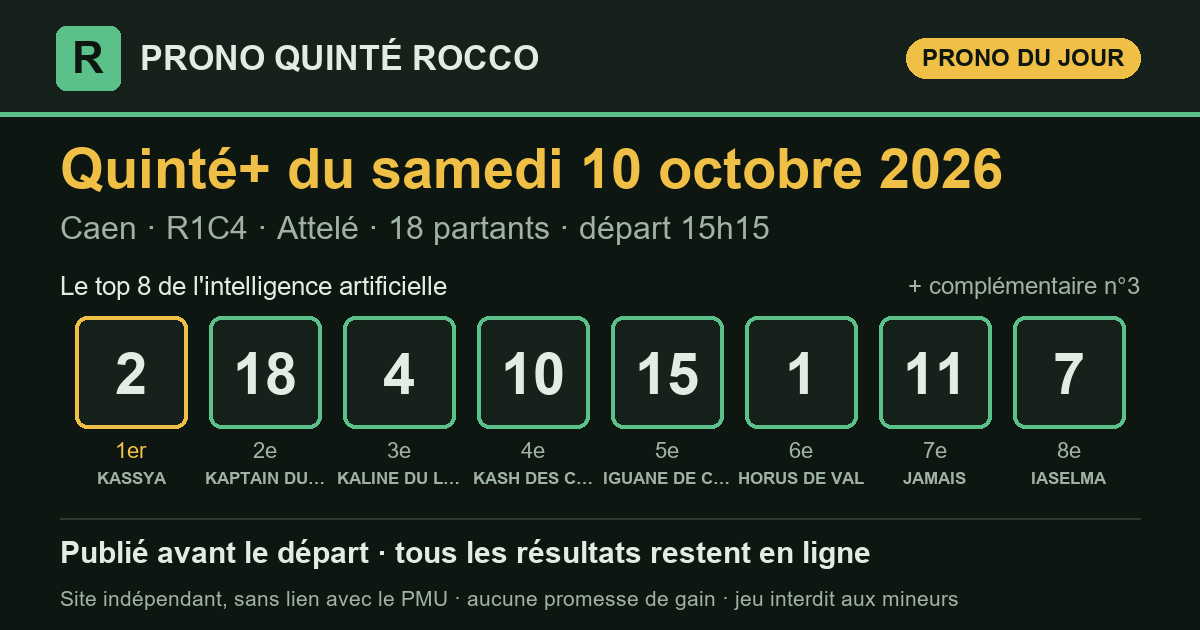
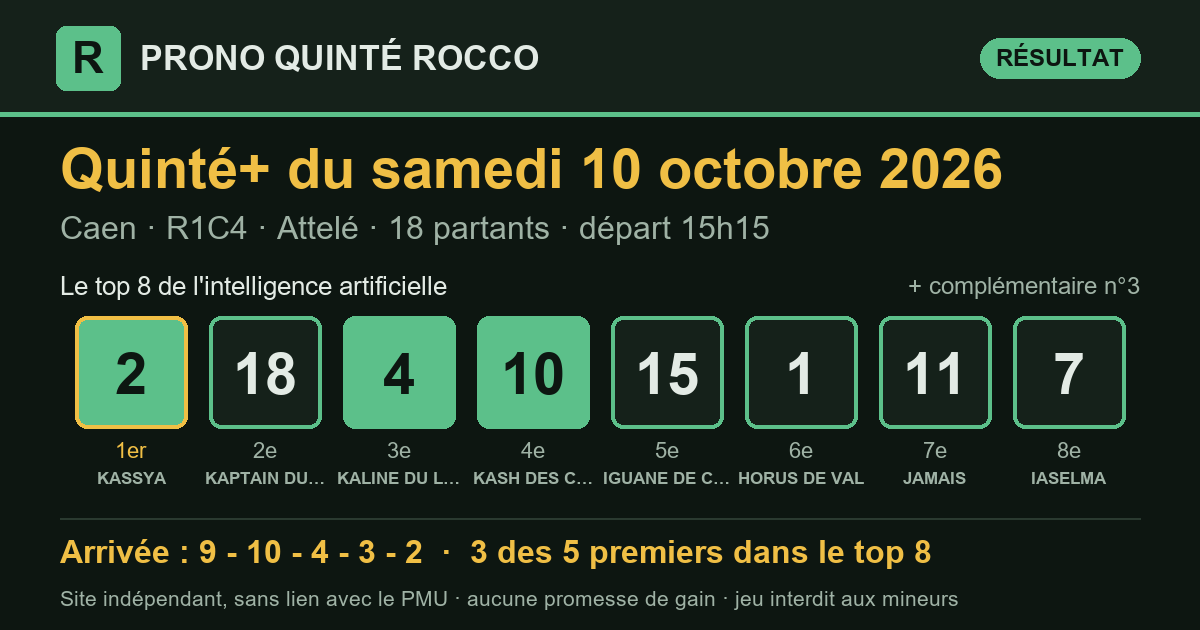
Prono Quinté+ 2026-10-10 Caen R1C4 — publié le 10/10/2026 15:27 (heure de Paris)

diff --git a/index.html b/index.html
@@ -13,7 +13,7 @@
 <meta property="og:title" content="Pronostic Quinté+ du samedi 10 octobre 2026 — Prono Quinté Rocco">
 <meta property="og:description" content="Le pronostic du Quinté+ par intelligence artificielle, publié avant le départ, avec tous les résultats et le rendement réel.">
 <meta property="og:url" content="https://roccogp971.github.io/prono-quinte-rocco/">
-<meta property="og:image" content="https://roccogp971.github.io/prono-quinte-rocco/partage/2026-10-10.png?v=e47417e0">
+<meta property="og:image" content="https://roccogp971.github.io/prono-quinte-rocco/partage/2026-10-10.png?v=2a5a7a5a">
 <meta property="og:image:type" content="image/png">
 <meta property="og:image:width" content="1200">
 <meta property="og:image:height" content="630">
@@ -28,15 +28,15 @@
 </header>
 <main>
 <section class="une" aria-labelledby="t-jour">
-  <p class="surtitre">Quinté+ du jour</p>
+  <p class="surtitre">Dernier Quinté+</p>
   <h1 id="t-jour">Le prono du Quinté+, résultats compris</h1>
   <p class="chapo">Chaque matin, une intelligence artificielle classe les partants du
   Quinté+. Le classement est publié avant le départ, puis comparé à l'arrivée
   officielle. Tous les résultats restent en ligne, les bons comme les mauvais.</p>
   <article class="carte-course">
-  <div class="tete"><h2>Samedi 10 octobre 2026</h2><span class="etat attente">arrivée en attente</span></div>
+  <div class="tete"><h2>Samedi 10 octobre 2026</h2><span class="etat place">3 des 5 premiers dans le top 8</span></div>
   <p class="meta">Caen · <strong>R1C4</strong> · Attelé · 18 partants · lisibilité <span class="note" aria-label="note 2 sur 5"><i class="on"></i><i class="on"></i><i class=""></i><i class=""></i><i class=""></i></span> 2/5</p>
-  <ol class="partants" aria-label="Classement du prono"><li><span class="rang">1<sup>er</sup></span><span class="tapis ">2</span><span class="nom">KASSYA</span></li><li><span class="rang">2<sup>e</sup></span><span class="tapis ">18</span><span class="nom">KAPTAIN DU LIAMONE</span></li><li><span class="rang">3<sup>e</sup></span><span class="tapis ">4</span><span class="nom">KALINE DU LOCHEUR</span></li><li><span class="rang">4<sup>e</sup></span><span class="tapis ">10</span><span class="nom">KASH DES CAILLONS</span></li><li><span class="rang">5<sup>e</sup></span><span class="tapis ">15</span><span class="nom">IGUANE DE CAPONET</span></li><li><span class="rang">6<sup>e</sup></span><span class="tapis ">1</span><span class="nom">HORUS DE VAL</span></li><li><span class="rang">7<sup>e</sup></span><span class="tapis ">11</span><span class="nom">JAMAIS</span></li><li><span class="rang">8<sup>e</sup></span><span class="tapis ">7</span><span class="nom">IASELMA</span></li><li><span class="rang">compl.</span><span class="tapis creux">3</span><span class="nom">KORONA DELADOU</span></li></ol>
+  <ol class="partants" aria-label="Classement du prono"><li><span class="rang">1<sup>er</sup></span><span class="tapis plein">2</span><span class="nom">KASSYA</span></li><li><span class="rang">2<sup>e</sup></span><span class="tapis ">18</span><span class="nom">KAPTAIN DU LIAMONE</span></li><li><span class="rang">3<sup>e</sup></span><span class="tapis plein">4</span><span class="nom">KALINE DU LOCHEUR</span></li><li><span class="rang">4<sup>e</sup></span><span class="tapis plein">10</span><span class="nom">KASH DES CAILLONS</span></li><li><span class="rang">5<sup>e</sup></span><span class="tapis ">15</span><span class="nom">IGUANE DE CAPONET</span></li><li><span class="rang">6<sup>e</sup></span><span class="tapis ">1</span><span class="nom">HORUS DE VAL</span></li><li><span class="rang">7<sup>e</sup></span><span class="tapis ">11</span><span class="nom">JAMAIS</span></li><li><span class="rang">8<sup>e</sup></span><span class="tapis ">7</span><span class="nom">IASELMA</span></li><li><span class="rang">compl.</span><span class="tapis creux plein">3</span><span class="nom">KORONA DELADOU</span></li></ol>
   <div class="pied-carte"><span>Analysé le 10/10 à 12:04 · en ligne le 10/10 à 12:19 · départ à 15:15 (heure de Paris)</span><span><a href="quinte/2026-10-10.html">Détail de la course</a></span></div>
 </article>
   <div class="legende"><span><span class="tapis plein petit">4</span> numéro dans les 5 premiers</span>
@@ -53,7 +53,7 @@
 </section>
 <section class="bilan" aria-labelledby="t-bilan">
   <h2 id="t-bilan">Le bilan depuis le 8 septembre 2026</h2>
-  <div class="tableau chiffres"><div class="case"><span class="gros ">75 %</span><span class="lib">des arrivants trouvés dans le top 8</span><span class="ref">un top 8 tiré au hasard : 52 %</span></div><div class="case"><span class="gros ">87 %</span><span class="lib">des gagnants présents dans le top 8</span><span class="ref"></span></div><div class="case"><span class="gros ">55 %</span><span class="lib">1er du prono placé</span><span class="ref">sur 31 Quintés</span></div><div class="case"><span class="gros perte">0,99 €</span><span class="lib">rendus pour 1 € joué placé sur le 1er</span><span class="ref">rapports officiels PMU</span></div><div class="case"><span class="gros perte">0,45 €</span><span class="lib">rendus pour 1 € joué en Quinté+ combiné top 8</span><span class="ref">56 combinaisons, rapports PMU.fr, sur 31 Quintés</span></div></div>
+  <div class="tableau chiffres"><div class="case"><span class="gros ">74 %</span><span class="lib">des arrivants trouvés dans le top 8</span><span class="ref">un top 8 tiré au hasard : 52 %</span></div><div class="case"><span class="gros ">84 %</span><span class="lib">des gagnants présents dans le top 8</span><span class="ref"></span></div><div class="case"><span class="gros ">55 %</span><span class="lib">1er du prono placé</span><span class="ref">sur 31 Quintés</span></div><div class="case"><span class="gros perte">0,99 €</span><span class="lib">rendus pour 1 € joué placé sur le 1er</span><span class="ref">rapports officiels PMU</span></div><div class="case"><span class="gros perte">0,44 €</span><span class="lib">rendus pour 1 € joué en Quinté+ combiné top 8</span><span class="ref">56 combinaisons, rapports PMU.fr, sur 32 Quintés</span></div></div>
   <p class="avertissement">Moins de 1 € rendu pour 1 € joué : suivre ce prono à la lettre fait <strong>perdre de l'argent</strong> sur cette période. Il sert à analyser une course, pas à promettre un gain.</p>
 </section>
 </main>

diff --git a/partants.html b/partants.html
@@ -32,49 +32,49 @@
     <p class="fiche-depart">Départ <b>15:15</b> <span>heure de Paris</span></p>
   </div>
   <p class="surtitre">Les pronostics ailleurs sur le web</p>
-  <div class="liens"><a class="lien-ext" href="https://www.turfoo.fr/programmes-courses/261010/reunion1-caen/course4-prix-de-la-ville-de-caen/pronostics-presse/" rel="noopener" target="_blank"><b>Les pronostics de la presse →</b><span>sur Turfoo (site extérieur)</span></a><a class="lien-ext" href="https://www.geny.com/programme/2026-10-10" rel="noopener" target="_blank"><b>Partants et pronostics →</b><span>programme du jour sur Geny (site extérieur)</span></a></div>
+  <div class="liens"><a class="lien-ext" href="https://www.turfoo.fr/programmes-courses/261010/" rel="noopener" target="_blank"><b>Les pronostics de la presse →</b><span>sur Turfoo (site extérieur)</span></a><a class="lien-ext" href="https://www.geny.com/programme/2026-10-10" rel="noopener" target="_blank"><b>Partants et pronostics →</b><span>programme du jour sur Geny (site extérieur)</span></a></div>
   <div class="liste-boite"><table class="liste-partants">
     <thead><tr><th>N°</th><th>Cheval</th><th class="cote"><span class="long">Cote du matin</span><span class="court">Cote</span></th>
     <th class="ia"><span class="long">Prono IA</span><span class="court">IA</span></th></tr></thead>
     <tbody><tr>
   <td><span class="tapis petit">1</span></td>
   <td><span class="cheval">HORUS DE VAL</span><span class="sous">E. LAMBERTZ · E. LAMBERTZ</span></td>
-  <td class="cote num">14,0</td>
+  <td class="cote num">13,0</td>
   <td class="ia"><span class="etat place">6<sup>e</sup></span></td>
 </tr><tr>
   <td><span class="tapis petit">2</span></td>
   <td><span class="cheval">KASSYA</span><span class="sous">Y. LEBOURGEOIS · D. LOCQUENEUX</span></td>
-  <td class="cote num">5,3</td>
+  <td class="cote num">5,0</td>
   <td class="ia"><span class="etat place">1<sup>er</sup></span></td>
 </tr><tr>
   <td><span class="tapis petit">3</span></td>
   <td><span class="cheval">KORONA DELADOU</span><span class="sous">GUILLAUME MARTIN · E. LETOUZE</span></td>
-  <td class="cote num">17,0</td>
+  <td class="cote num">16,0</td>
   <td class="ia"><span class="etat place">compl.</span></td>
 </tr><tr>
   <td><span class="tapis petit">4</span></td>
   <td><span class="cheval">KALINE DU LOCHEUR</span><span class="sous">D. BROHIER · D. BROHIER</span></td>
-  <td class="cote num">8,8</td>
+  <td class="cote num">8,4</td>
   <td class="ia"><span class="etat place">3<sup>e</sup></span></td>
 </tr><tr>
   <td><span class="tapis petit">5</span></td>
   <td><span class="cheval">KALITA D&#x27;HENINEL</span><span class="sous">J.G. VAN EECKHAUTE · J.G. VAN EECKHAUTE</span></td>
-  <td class="cote num">69,0</td>
+  <td class="cote num">83,0</td>
   <td class="ia">—</td>
 </tr><tr>
   <td><span class="tapis petit">6</span></td>
   <td><span class="cheval">IL PLEUT BERGERE</span><span class="sous">M. VERVA · G. VERVA</span></td>
-  <td class="cote num">43,0</td>
+  <td class="cote num">47,0</td>
   <td class="ia">—</td>
 </tr><tr>
   <td><span class="tapis petit">7</span></td>
   <td><span class="cheval">IASELMA</span><span class="sous">J. GOSSELIN · J. GOSSELIN</span></td>
-  <td class="cote num">29,0</td>
+  <td class="cote num">34,0</td>
   <td class="ia"><span class="etat place">8<sup>e</sup></span></td>
 </tr><tr>
   <td><span class="tapis petit">8</span></td>
   <td><span class="cheval">ISIA DU CHENE</span><span class="sous">M. MOTTIER · J. LE MER</span></td>
-  <td class="cote num">14,0</td>
+  <td class="cote num">12,0</td>
   <td class="ia">—</td>
 </tr><tr>
   <td><span class="tapis petit">9</span></td>
@@ -84,27 +84,27 @@
 </tr><tr>
   <td><span class="tapis petit">10</span></td>
   <td><span class="cheval">KASH DES CAILLONS</span><span class="sous">A. FAVRIS · Anthonin FAVRIS</span></td>
-  <td class="cote num">6,7</td>
+  <td class="cote num">7,5</td>
   <td class="ia"><span class="etat place">4<sup>e</sup></span></td>
 </tr><tr>
   <td><span class="tapis petit">11</span></td>
   <td><span class="cheval">JAMAIS</span><span class="sous">CEDRIC TERRY · F. TERRY</span></td>
-  <td class="cote num">17,0</td>
+  <td class="cote num">16,0</td>
   <td class="ia"><span class="etat place">7<sup>e</sup></span></td>
 </tr><tr>
   <td><span class="tapis petit">12</span></td>
   <td><span class="cheval">JUDY MATIDY</span><span class="sous">A. ANDRE · D. LECROQ</span></td>
-  <td class="cote num">43,0</td>
+  <td class="cote num">42,0</td>
   <td class="ia">—</td>
 </tr><tr>
   <td><span class="tapis petit">13</span></td>
   <td><span class="cheval">JANE AIMEE</span><span class="sous">CH. CLIN · Sté. Ent. Christophe CLIN</span></td>
-  <td class="cote num">94,0</td>
+  <td class="cote num">111,0</td>
   <td class="ia">—</td>
 </tr><tr>
   <td><span class="tapis petit">14</span></td>
   <td><span class="cheval">INDICE DELADOU</span><span class="sous">E. ALLARD · CH. HESLOUIN</span></td>
-  <td class="cote num">121,0</td>
+  <td class="cote num">146,0</td>
   <td class="ia">—</td>
 </tr><tr>
   <td><span class="tapis petit">15</span></td>
@@ -114,22 +114,22 @@
 </tr><tr>
   <td><span class="tapis petit">16</span></td>
   <td><span class="cheval">HABIT DE SOIREE</span><span class="sous">F. OUVRIE · F. SENET</span></td>
-  <td class="cote num">71,0</td>
+  <td class="cote num">93,0</td>
   <td class="ia">—</td>
 </tr><tr>
   <td><span class="tapis petit">17</span></td>
   <td><span class="cheval">GINO VIVA</span><span class="sous">D. THOMAIN · D. LOCQUENEUX</span></td>
-  <td class="cote num">84,0</td>
+  <td class="cote num">95,0</td>
   <td class="ia">—</td>
 </tr><tr>
   <td><span class="tapis petit">18</span></td>
   <td><span class="cheval">KAPTAIN DU LIAMONE</span><span class="sous">B. ROCHARD · FREDERIC PRAT</span></td>
-  <td class="cote num">6,2</td>
+  <td class="cote num">6,5</td>
   <td class="ia"><span class="etat place">2<sup>e</sup></span></td>
 </tr></tbody>
   </table></div>
   <p class="meta">Le rang du prono IA est celui publié sur ce site. Sous chaque cheval : driver · entraîneur. Partants et cotes : programme
-  officiel du PMU, lu le 10/10 à 12:19 (heure de Paris). NP = non-partant.</p>
+  officiel du PMU, lu le 10/10 à 15:27 (heure de Paris). NP = non-partant.</p>
 </section>
 </main>
 <footer class="pied">

diff --git a/quinte/2026-10-10.html b/quinte/2026-10-10.html
@@ -13,7 +13,7 @@
 <meta property="og:title" content="Pronostic Quinté+ du samedi 10 octobre 2026 à Caen — Prono Quinté Rocco">
 <meta property="og:description" content="Prono Quinté+ du samedi 10 octobre 2026 (Caen) : top 8, arrivée officielle et rapports PMU.fr.">
 <meta property="og:url" content="https://roccogp971.github.io/prono-quinte-rocco/quinte/2026-10-10.html">
-<meta property="og:image" content="https://roccogp971.github.io/prono-quinte-rocco/partage/2026-10-10.png?v=e47417e0">
+<meta property="og:image" content="https://roccogp971.github.io/prono-quinte-rocco/partage/2026-10-10.png?v=2a5a7a5a">
 <meta property="og:image:type" content="image/png">
 <meta property="og:image:width" content="1200">
 <meta property="og:image:height" content="630">
@@ -32,11 +32,19 @@
   <h1>Pronostic Quinté+ du samedi 10 octobre 2026</h1>
   <p class="chapo">Caen · R1C4 · Attelé · 18 partants</p>
   <article class="carte-course">
-  <div class="tete"><h2>Le prono : top 8 et complémentaire</h2><span class="etat attente">arrivée en attente</span></div>
+  <div class="tete"><h2>Le prono : top 8 et complémentaire</h2><span class="etat place">3 des 5 premiers dans le top 8</span></div>
   <p class="meta">Caen · <strong>R1C4</strong> · Attelé · 18 partants · lisibilité <span class="note" aria-label="note 2 sur 5"><i class="on"></i><i class="on"></i><i class=""></i><i class=""></i><i class=""></i></span> 2/5</p>
-  <ol class="partants" aria-label="Classement du prono"><li><span class="rang">1<sup>er</sup></span><span class="tapis ">2</span><span class="nom">KASSYA</span></li><li><span class="rang">2<sup>e</sup></span><span class="tapis ">18</span><span class="nom">KAPTAIN DU LIAMONE</span></li><li><span class="rang">3<sup>e</sup></span><span class="tapis ">4</span><span class="nom">KALINE DU LOCHEUR</span></li><li><span class="rang">4<sup>e</sup></span><span class="tapis ">10</span><span class="nom">KASH DES CAILLONS</span></li><li><span class="rang">5<sup>e</sup></span><span class="tapis ">15</span><span class="nom">IGUANE DE CAPONET</span></li><li><span class="rang">6<sup>e</sup></span><span class="tapis ">1</span><span class="nom">HORUS DE VAL</span></li><li><span class="rang">7<sup>e</sup></span><span class="tapis ">11</span><span class="nom">JAMAIS</span></li><li><span class="rang">8<sup>e</sup></span><span class="tapis ">7</span><span class="nom">IASELMA</span></li><li><span class="rang">compl.</span><span class="tapis creux">3</span><span class="nom">KORONA DELADOU</span></li></ol>
+  <ol class="partants" aria-label="Classement du prono"><li><span class="rang">1<sup>er</sup></span><span class="tapis plein">2</span><span class="nom">KASSYA</span></li><li><span class="rang">2<sup>e</sup></span><span class="tapis ">18</span><span class="nom">KAPTAIN DU LIAMONE</span></li><li><span class="rang">3<sup>e</sup></span><span class="tapis plein">4</span><span class="nom">KALINE DU LOCHEUR</span></li><li><span class="rang">4<sup>e</sup></span><span class="tapis plein">10</span><span class="nom">KASH DES CAILLONS</span></li><li><span class="rang">5<sup>e</sup></span><span class="tapis ">15</span><span class="nom">IGUANE DE CAPONET</span></li><li><span class="rang">6<sup>e</sup></span><span class="tapis ">1</span><span class="nom">HORUS DE VAL</span></li><li><span class="rang">7<sup>e</sup></span><span class="tapis ">11</span><span class="nom">JAMAIS</span></li><li><span class="rang">8<sup>e</sup></span><span class="tapis ">7</span><span class="nom">IASELMA</span></li><li><span class="rang">compl.</span><span class="tapis creux plein">3</span><span class="nom">KORONA DELADOU</span></li></ol>
   <div class="pied-carte"><span>Analysé le 10/10 à 12:04 · en ligne le 10/10 à 12:19 · départ à 15:15 (heure de Paris)</span><span></span></div>
 </article>
+<section class="carte-course" aria-labelledby="t-arr">
+  <div class="tete"><h2 id="t-arr">Arrivée officielle</h2></div>
+  <div class="rangee"><span class="tapis creux" title="1er">9</span><span class="tapis plein" title="2e">10</span><span class="tapis plein" title="3e">4</span><span class="tapis creux" title="4e">3</span><span class="tapis plein" title="5e">2</span></div>
+  <div class="deux">
+    <div><h3>Ce qu'aurait rendu le prono</h3><dl class="kv"><dt>1 € placé sur le 1er (n°2)</dt><dd>rapport manquant</dd><dt>1 € gagnant sur le 1er</dt><dd>rapport manquant</dd><dt>Quinté+ combiné top 8 (mise 112 €)</dt><dd>0,00 €</dd><dt>dont</dt><dd>aucun gain</dd></dl></div>
+    <div><h3>Rapports officiels</h3><dl class="kv"><dt>e-Quinté+ Ordre (2 €)</dt><dd>11 402,40 €</dd><dt>e-Quinté+ Désordre (2 €)</dt><dd>95,00 €</dd><dt>e-Bonus 4sur5 (2 €)</dt><dd>5,80 €</dd><dt>e-Bonus 3 (2 €)</dt><dd>5,00 €</dd></dl></div>
+  </div>
+</section>
 </section>
 </main>
 <footer class="pied">

diff --git a/resultats.html b/resultats.html
@@ -36,8 +36,8 @@
     <tbody><tr>
   <td class="c-date"><a href="quinte/2026-10-10.html">10/10</a></td>
   <td class="c-course">Caen<br><span class="meta">R1C4 · Attelé</span></td>
-  <td data-label="Top 8 du prono"><div class="rangee"><span class="tapis petit">2</span><span class="tapis petit">18</span><span class="tapis petit">4</span><span class="tapis petit">10</span><span class="tapis petit">15</span><span class="tapis petit">1</span><span class="tapis petit">11</span><span class="tapis petit">7</span></div></td><td data-label="Arrivée"><span class="etat attente">en attente</span></td>
-  <td class="num" data-label="Trouvés">—</td><td data-label="1er du prono"><span class="etat attente">—</span></td><td class="mont" data-label="Quinté+ top 8 (mise 112 €)">—</td>
+  <td data-label="Top 8 du prono"><div class="rangee"><span class="tapis plein petit">2</span><span class="tapis petit">18</span><span class="tapis plein petit">4</span><span class="tapis plein petit">10</span><span class="tapis petit">15</span><span class="tapis petit">1</span><span class="tapis petit">11</span><span class="tapis petit">7</span></div></td><td data-label="Arrivée"><div class="rangee"><span class="tapis creux petit" title="1er">9</span><span class="tapis plein petit" title="2e">10</span><span class="tapis plein petit" title="3e">4</span><span class="tapis creux petit" title="4e">3</span><span class="tapis plein petit" title="5e">2</span></div></td>
+  <td class="num" data-label="Trouvés">3/5</td><td data-label="1er du prono"><span class="etat non">non placé</span></td><td class="mont perte" data-label="Quinté+ top 8 (mise 112 €)">0,00 €</td>
 </tr><tr>
   <td class="c-date"><a href="quinte/2026-10-09.html">09/10</a></td>
   <td class="c-course">Vincennes<br><span class="meta">R1C4 · Attelé</span></td>
@@ -198,7 +198,7 @@
 </section>
 <section class="bilan" aria-labelledby="t-bilan">
   <h2 id="t-bilan">Le bilan depuis le 8 septembre 2026</h2>
-  <div class="tableau chiffres"><div class="case"><span class="gros ">75 %</span><span class="lib">des arrivants trouvés dans le top 8</span><span class="ref">un top 8 tiré au hasard : 52 %</span></div><div class="case"><span class="gros ">87 %</span><span class="lib">des gagnants présents dans le top 8</span><span class="ref"></span></div><div class="case"><span class="gros ">55 %</span><span class="lib">1er du prono placé</span><span class="ref">sur 31 Quintés</span></div><div class="case"><span class="gros perte">0,99 €</span><span class="lib">rendus pour 1 € joué placé sur le 1er</span><span class="ref">rapports officiels PMU</span></div><div class="case"><span class="gros perte">0,45 €</span><span class="lib">rendus pour 1 € joué en Quinté+ combiné top 8</span><span class="ref">56 combinaisons, rapports PMU.fr, sur 31 Quintés</span></div></div>
+  <div class="tableau chiffres"><div class="case"><span class="gros ">74 %</span><span class="lib">des arrivants trouvés dans le top 8</span><span class="ref">un top 8 tiré au hasard : 52 %</span></div><div class="case"><span class="gros ">84 %</span><span class="lib">des gagnants présents dans le top 8</span><span class="ref"></span></div><div class="case"><span class="gros ">55 %</span><span class="lib">1er du prono placé</span><span class="ref">sur 31 Quintés</span></div><div class="case"><span class="gros perte">0,99 €</span><span class="lib">rendus pour 1 € joué placé sur le 1er</span><span class="ref">rapports officiels PMU</span></div><div class="case"><span class="gros perte">0,44 €</span><span class="lib">rendus pour 1 € joué en Quinté+ combiné top 8</span><span class="ref">56 combinaisons, rapports PMU.fr, sur 32 Quintés</span></div></div>
   <p class="avertissement">Moins de 1 € rendu pour 1 € joué : suivre ce prono à la lettre fait <strong>perdre de l'argent</strong> sur cette période. Il sert à analyser une course, pas à promettre un gain.</p>
 </section>
 </main>
